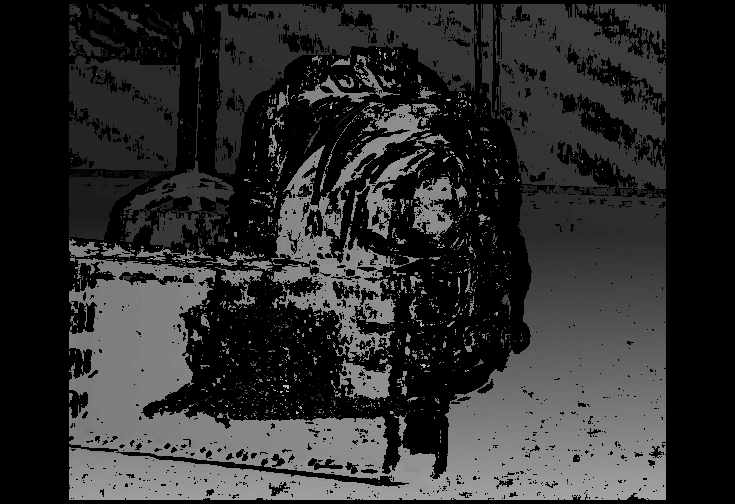
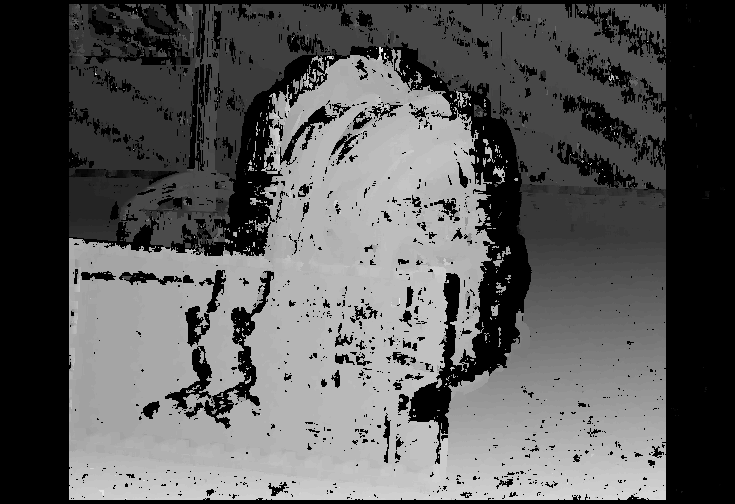
Improved occlusion by fixing some bugs, measured average time of execution

diff --git a/Single thread CPU/Code/main.c b/Single thread CPU/Code/main.c
@@ -207,9 +207,9 @@ void ZNCC_right(const char* input_left, const char* input_right, const char* out
 	error = lodepng_decode32_file(&image_right, &width, &height, input_right);
 	if(error) printf("error %u: %s\n", error, lodepng_error_text(error));
 
-	Uint32 value_left, value_right, sum_left, sum_right, meanValueLeft, meanValueRight, upperSum, lowerSum_0, lowerSum_1, bestDisp; // Declaration of the integers used in the algorithm
+	Uint32 value_left, value_right, sum_left, sum_right, bestDisp; // Declaration of the integers used in the algorithm
 
-	float znccValue, maxSum; // Declaration of the floats used in the algorithm
+	double znccValue, maxSum, upperSum, lowerSum_0, lowerSum_1, meanValueLeft, meanValueRight; // Declaration of the floats used in the algorithm
 
 	unsigned max_disp = 65; // The suggested maximum disparity is 260, the image is 4 times smaller
 
@@ -243,8 +243,8 @@ void ZNCC_right(const char* input_left, const char* input_right, const char* out
 
 				}
 
-				meanValueLeft = sum_left / (sizeWindow * sizeWindow);
-				meanValueRight = sum_right / (sizeWindow * sizeWindow);
+				meanValueLeft = (double)sum_left / (sizeWindow * sizeWindow);
+				meanValueRight = (double)sum_right / (sizeWindow * sizeWindow);
 
 				upperSum = 0; lowerSum_0 = 0; lowerSum_1 = 0;
 
@@ -275,7 +275,7 @@ void ZNCC_right(const char* input_left, const char* input_right, const char* out
 			}
 
 
-			int depthValue = ceil((255 / max_disp) * bestDisp); // Normalization of the result
+			int depthValue = ceil(((double)255 / max_disp) * bestDisp); // Normalization of the result
 
 			// Saving the result in the ouput image
 
@@ -314,9 +314,9 @@ void ZNCC_left(const char* input_left, const char* input_right, const char* outp
 	error = lodepng_decode32_file(&image_right, &width, &height, input_right);
 	if(error) printf("error %u: %s\n", error, lodepng_error_text(error));
 
-	Uint32 value_left, value_right, sum_left, sum_right, meanValueLeft, meanValueRight, upperSum, lowerSum_0, lowerSum_1, bestDisp; // Declaration of the integers used in the algorithm
+	Uint32 value_left, value_right, sum_left, sum_right, bestDisp; // Declaration of the integers used in the algorithm
 
-	float znccValue, maxSum; // Declaration of the floats used in the algorithm
+	double znccValue, maxSum, upperSum, lowerSum_0, lowerSum_1, meanValueLeft, meanValueRight; // Declaration of the floats used in the algorithm
 
 	unsigned max_disp = 65; // The suggested maximum disparity is 260, the image is 4 times smaller
 
@@ -350,8 +350,8 @@ void ZNCC_left(const char* input_left, const char* input_right, const char* outp
 
 				}
 
-				meanValueLeft = sum_left / (sizeWindow * sizeWindow);
-				meanValueRight = sum_right / (sizeWindow * sizeWindow);
+				meanValueLeft = (double)sum_left / (sizeWindow * sizeWindow);
+				meanValueRight = (double)sum_right / (sizeWindow * sizeWindow);
 
 				upperSum = 0; lowerSum_0 = 0; lowerSum_1 = 0;
 
@@ -381,7 +381,7 @@ void ZNCC_left(const char* input_left, const char* input_right, const char* outp
 
 			}
 
-			int depthValue = ceil((255 / max_disp) * bestDisp); // Normalization of the result
+			int depthValue = ceil(((double)255 / max_disp) * bestDisp); // Normalization of the result
 
 			// Saving the result in the ouput image
 
@@ -420,6 +420,9 @@ void cross_checking(const char* input1, const char* input2, const char* output){
 	error = lodepng_decode32_file(&image2, &width, &height, input2);
 	if(error) printf("error %u: %s\n", error, lodepng_error_text(error));
 
+	unsigned dValue1 = 0;
+	unsigned dValue2 = 0;
+
 	unsigned char* checkedImage = malloc(width * height * 4); // Declaration of the output image and memory allocation
 
 	// For each pixel of the two input images
@@ -428,7 +431,12 @@ void cross_checking(const char* input1, const char* input2, const char* output){
 
 		for(int w = 0; w < width; w++){
 
-			if( abs( image1[4 * width * h + 4 * w] - image2[4 * width * h + 4 * w] ) < 8 ){ // If the difference between the value of image 1 and 2 is superior than the threshold
+			// We get back to the "disparity scale" before the normalization
+
+			dValue1 = ceil(((double)64 / 255) * image1[4 * width * h + 4 * w]);
+			dValue2 = ceil(((double)64 / 255) * image2[4 * width * h + 4 * w]);
+
+			if( abs( dValue1 - dValue2 ) < 8 ){ // If the difference between the value of image 1 and 2 is inferior to the threshold
 
 				value = image1[4 * width * h + 4 * w]; // We take the value of the first image
 

diff --git a/README.md b/README.md
@@ -33,4 +33,6 @@ Apply an occlusion filling algorithm. First, we define a window size of 3. If no
 - [x] Measure the total execution time of the implementation
 - [x] Comment the code and make a documentation
 
-**Impoved occlusion, but still some holes on the picture**
+## Time of execution
+
+Average on 5 trials: 193,485321 seconds
